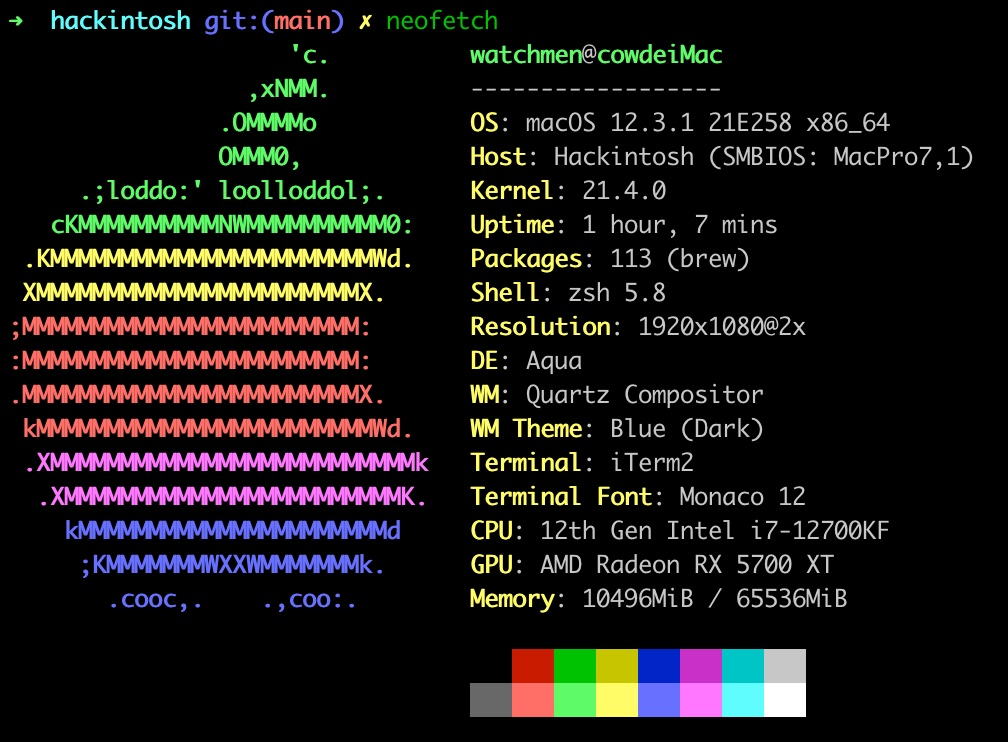
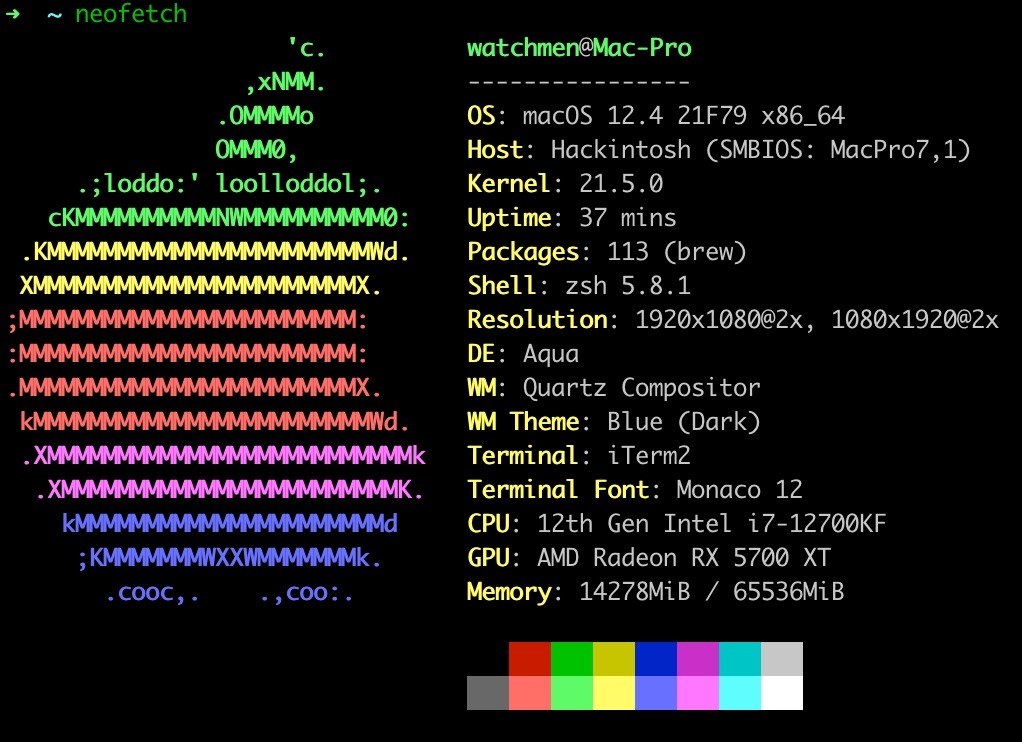
12.4

Changed region(s): [[0.0, 0.0, 0.9841, 0.9919]]

diff --git a/README.md b/README.md
@@ -1,8 +1,6 @@
 # i7-12700kf_ASUS-B660M-PLUS-D4_5700xt
 
-基于opencore `0.8.0`版本，适用于华硕ASUS TUF GAMING B660M-PLUS D4主板和12代intelCPU，i7-12700kf的黑苹果引导文件，系统是Monterey `12.3.1`。因为就是冲着装黑苹果去的，所以购买硬件之前CPU特意买了没有核显的F系列(有也驱动不了)，主板没有买WIFI版本，板载WIFI网卡虽然可以驱动，但是隔空等功能受限。
-
-- 2022.05.23 可以更新到`12.4`
+基于opencore `0.8.0`版本，适用于华硕ASUS TUF GAMING B660M-PLUS D4主板和12代intelCPU，i7-12700kf的黑苹果引导文件，系统是Monterey `12.4`。因为就是冲着装黑苹果去的，所以购买硬件之前CPU特意买了没有核显的F系列(有也驱动不了)，主板没有买WIFI版本，板载WIFI网卡虽然可以驱动，但是隔空等功能受限。
 
 ### 硬件列表
 
@@ -26,6 +24,12 @@
 只需要在boot启动那里把快速启动关闭即可，其他选项我试了其实开不开都不影响，VT-d不关闭也不影响，Above 4G，Hand-Off等这些默认都是开启的，无需修改
 
 不需要关闭E-Core和超线程
+
+### 关闭CFG Lock
+
+非常重要，不然会无故重启，我的这块ASUS主板的bios里可能没有这一项，实际上是开着的，需要按照opencore的官方文档关闭，会用到`ControlMsrE2.efi`和`modGRUBShell.efi`两个工具，结合`UEFITool`和`ifrextract`
+
+参见文档 https://dortania.github.io/OpenCore-Post-Install/misc/msr-lock.html#checking-via-controlmsre2
 
 ### 使用工具
 
@@ -93,15 +97,13 @@
 
 ### 部分系统截图
 
+![Xnip2022-05-13_15-04-55](./images/Xnip2022-05-13_15-04-55.jpg)
+
 ![Xnip2022-05-13_14-07-32](./images/Xnip2022-05-13_14-07-32.jpg)
 
 ![Xnip2022-05-13_14-08-34](./images/Xnip2022-05-13_14-08-34.jpg)
 
 ![Xnip2022-05-13_14-08-43](./images/Xnip2022-05-13_14-08-43.jpg)
-
-![Xnip2022-05-13_15-03-33](./images/Xnip2022-05-13_15-03-33.jpg)
-
-![Xnip2022-05-13_15-04-55](./images/Xnip2022-05-13_15-04-55.jpg)
 
 ![Xnip2022-05-13_15-05-41](./images/Xnip2022-05-13_15-05-41.jpg)
 
